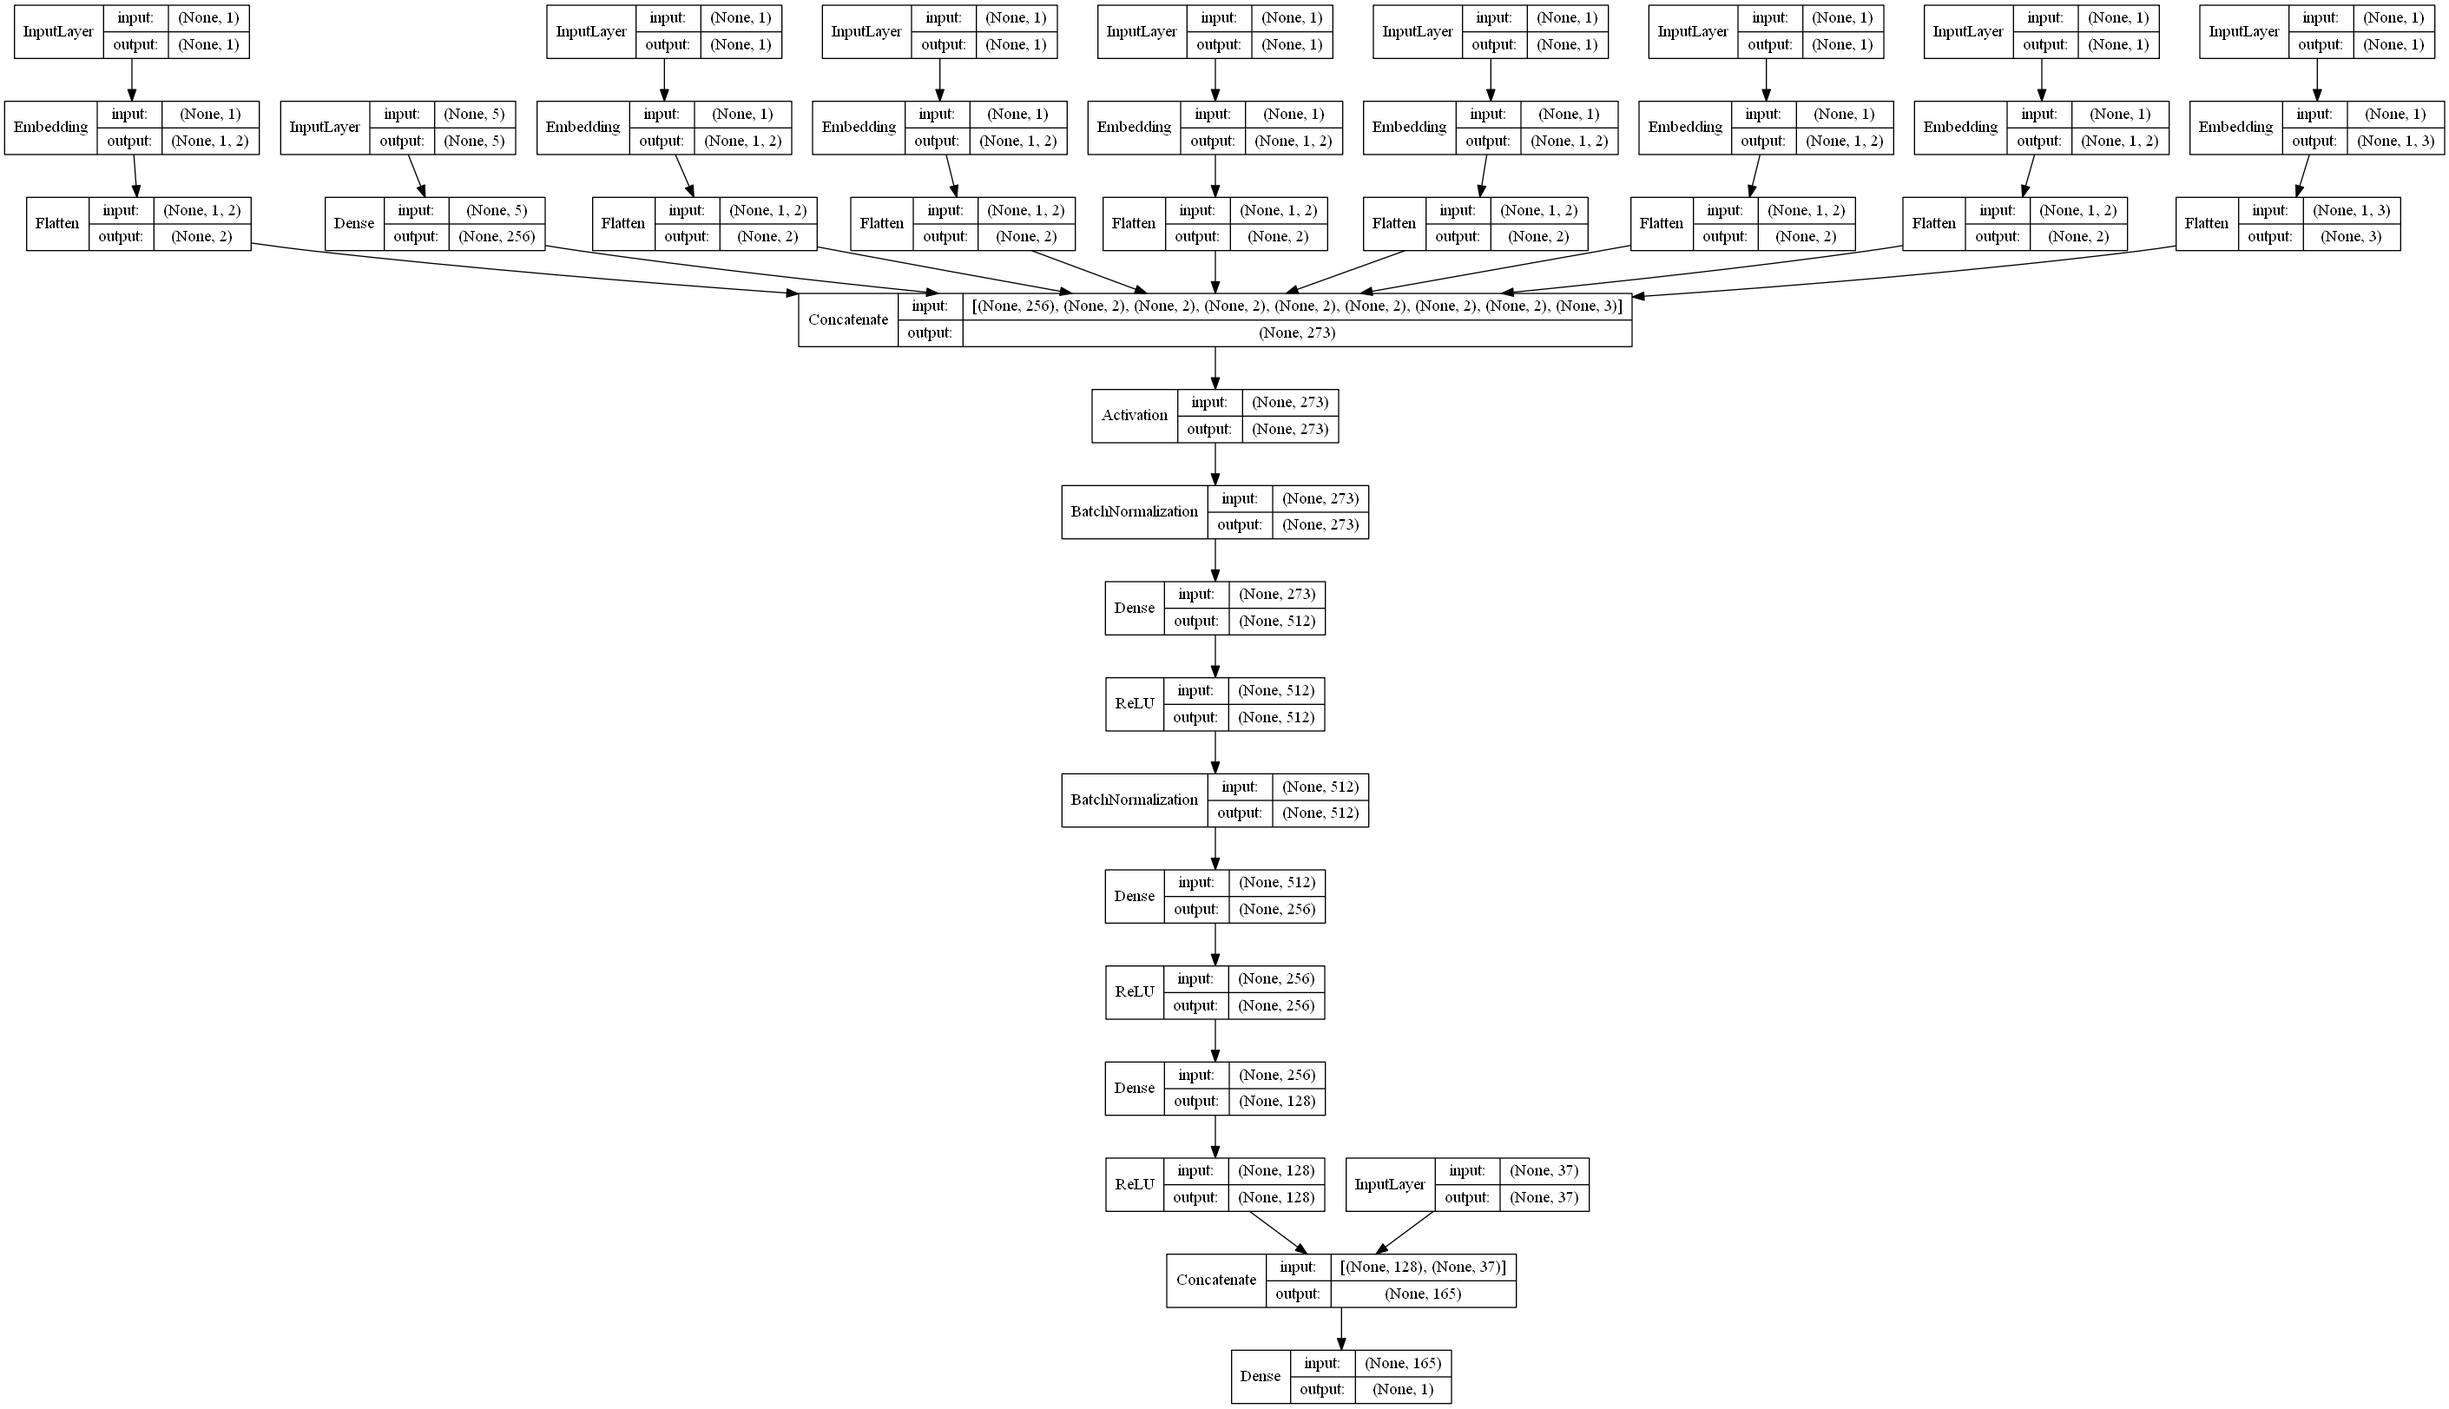
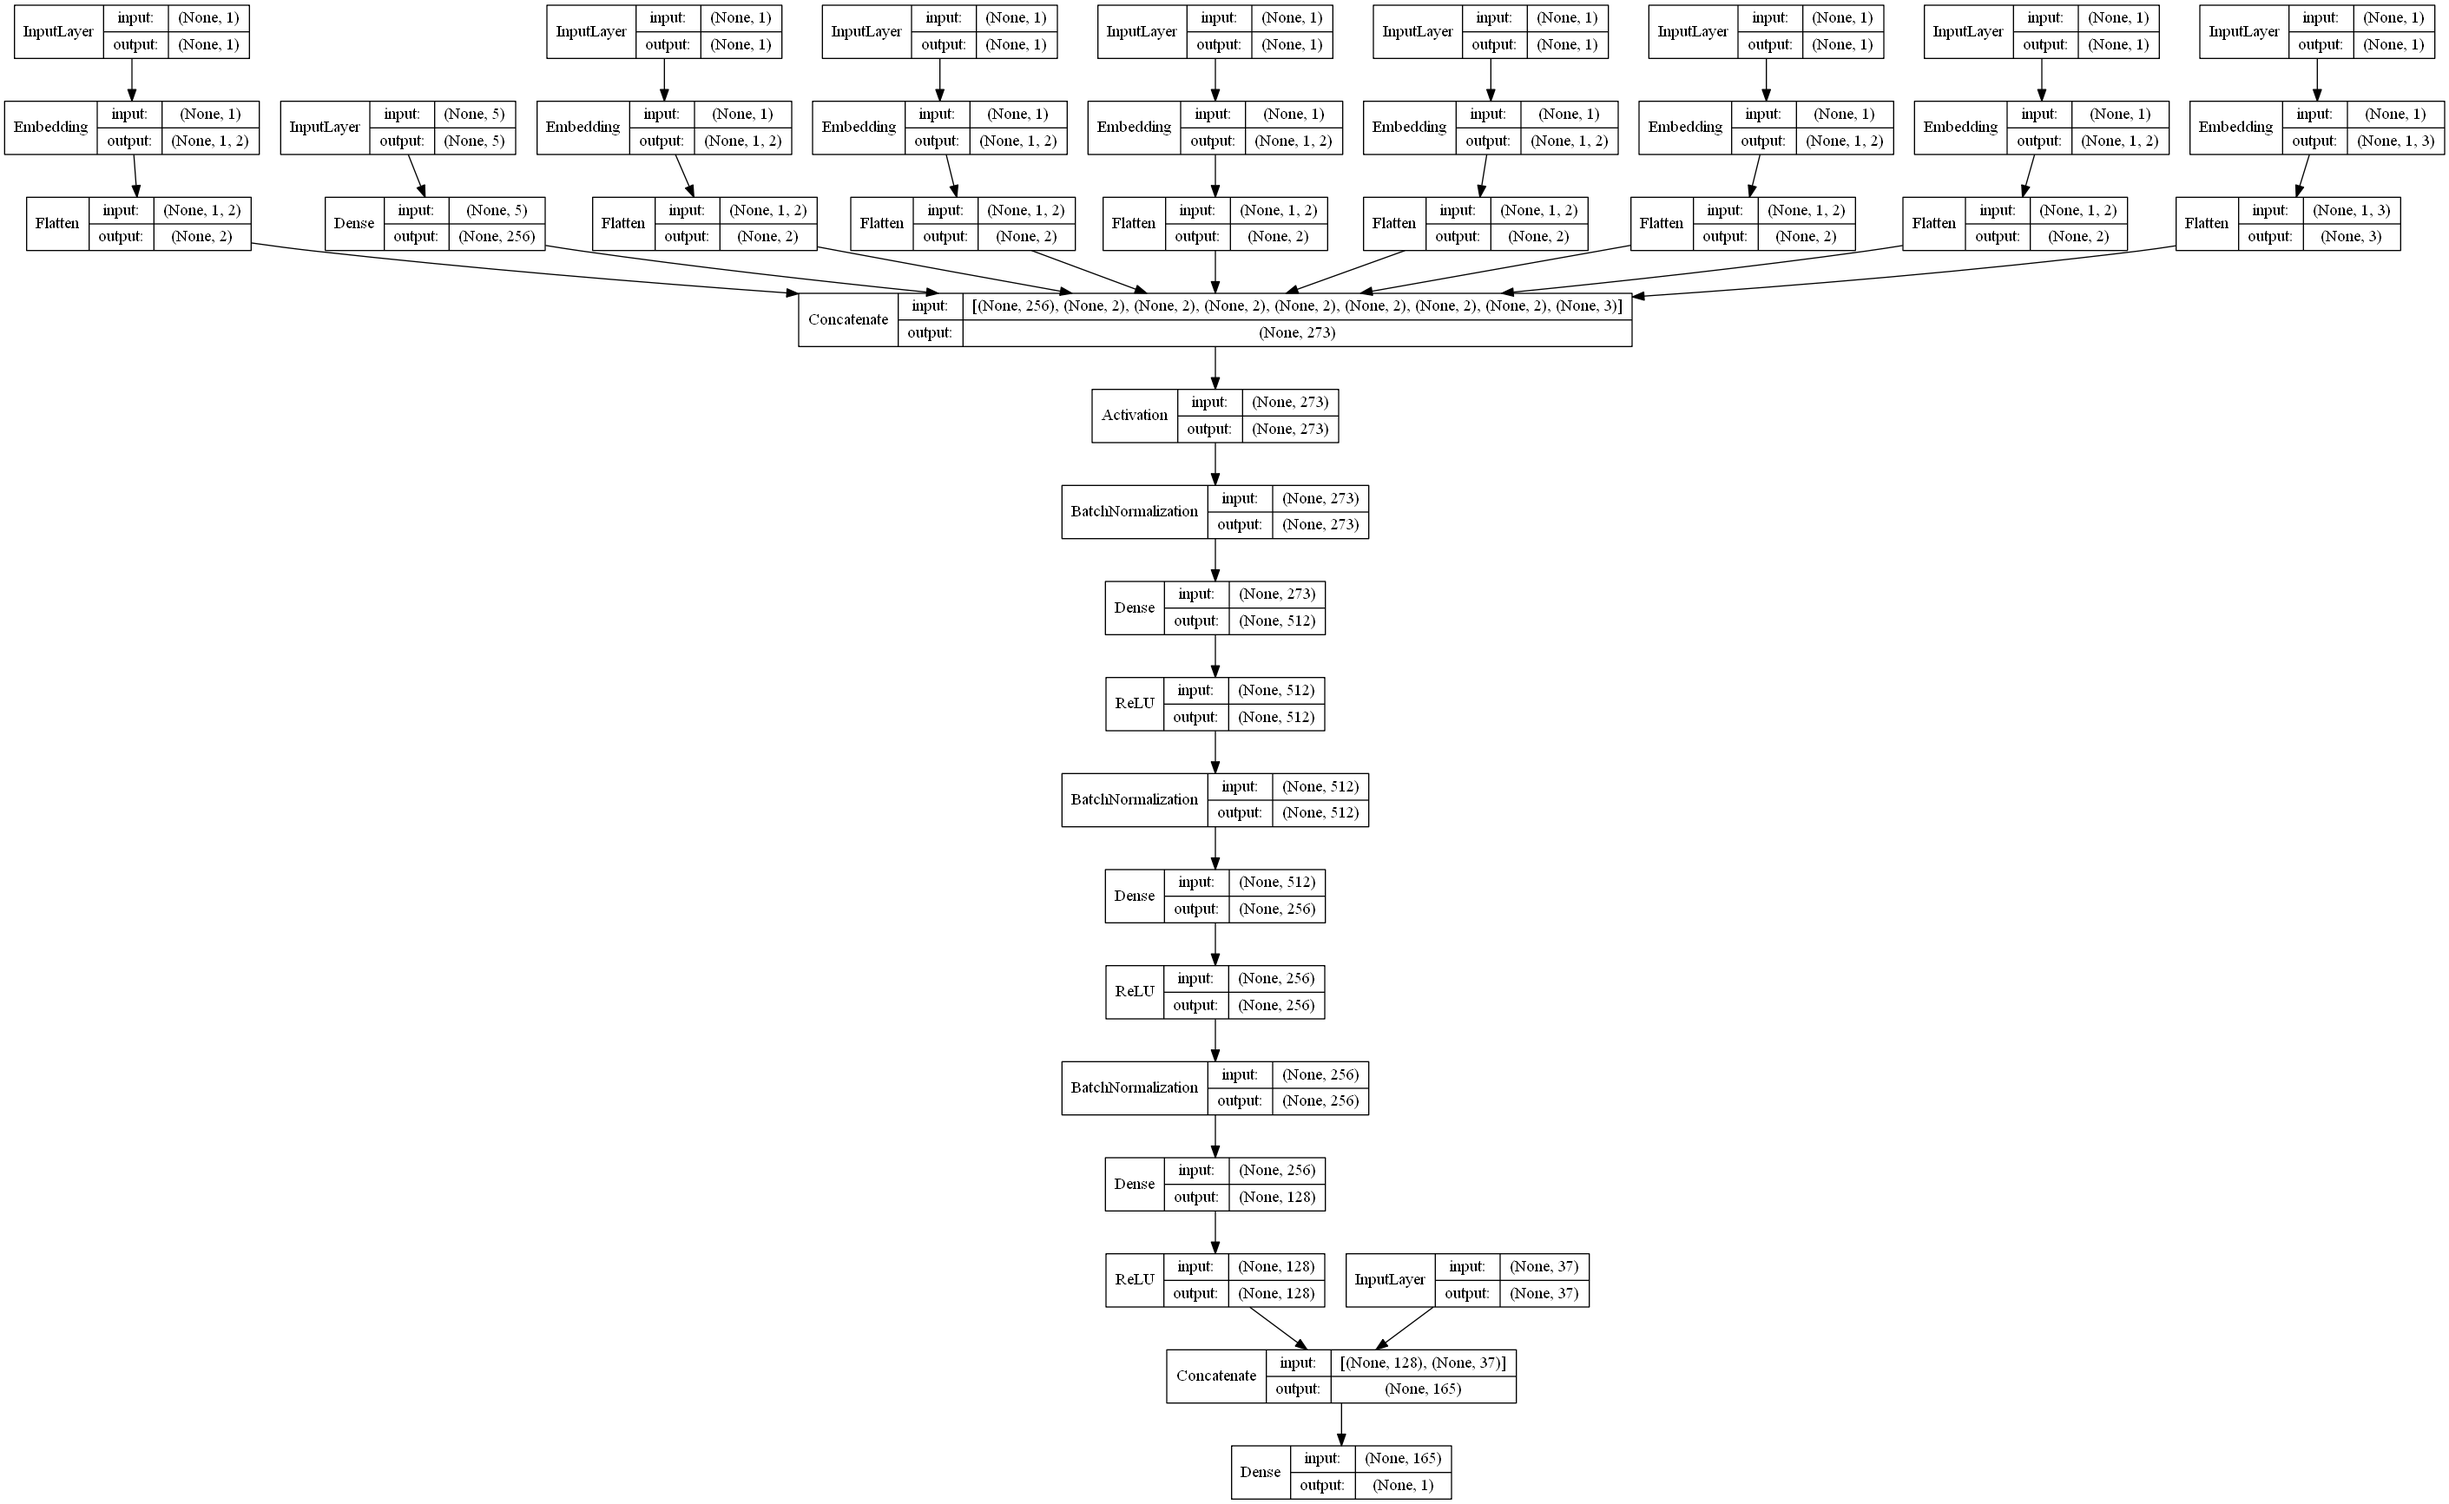
Add files via upload

Changed region(s): [[0.0, 0.0, 0.9982, 1.0]]

diff --git a/wide_and_deep.py b/wide_and_deep.py
@@ -107,7 +107,7 @@ class Wide_and_Deep:
         fc2 = Dense(256, use_bias=False)(bn1)
         ac2 = ReLU()(fc2)
         bn2 = BatchNormalization()(ac2)
-        fc3 = Dense(128)(ac2)
+        fc3 = Dense(128)(bn2)
         ac3 = ReLU()(fc3)
 
         # 入力の層と最後の層をメンバー変数化（モデル作成用）
